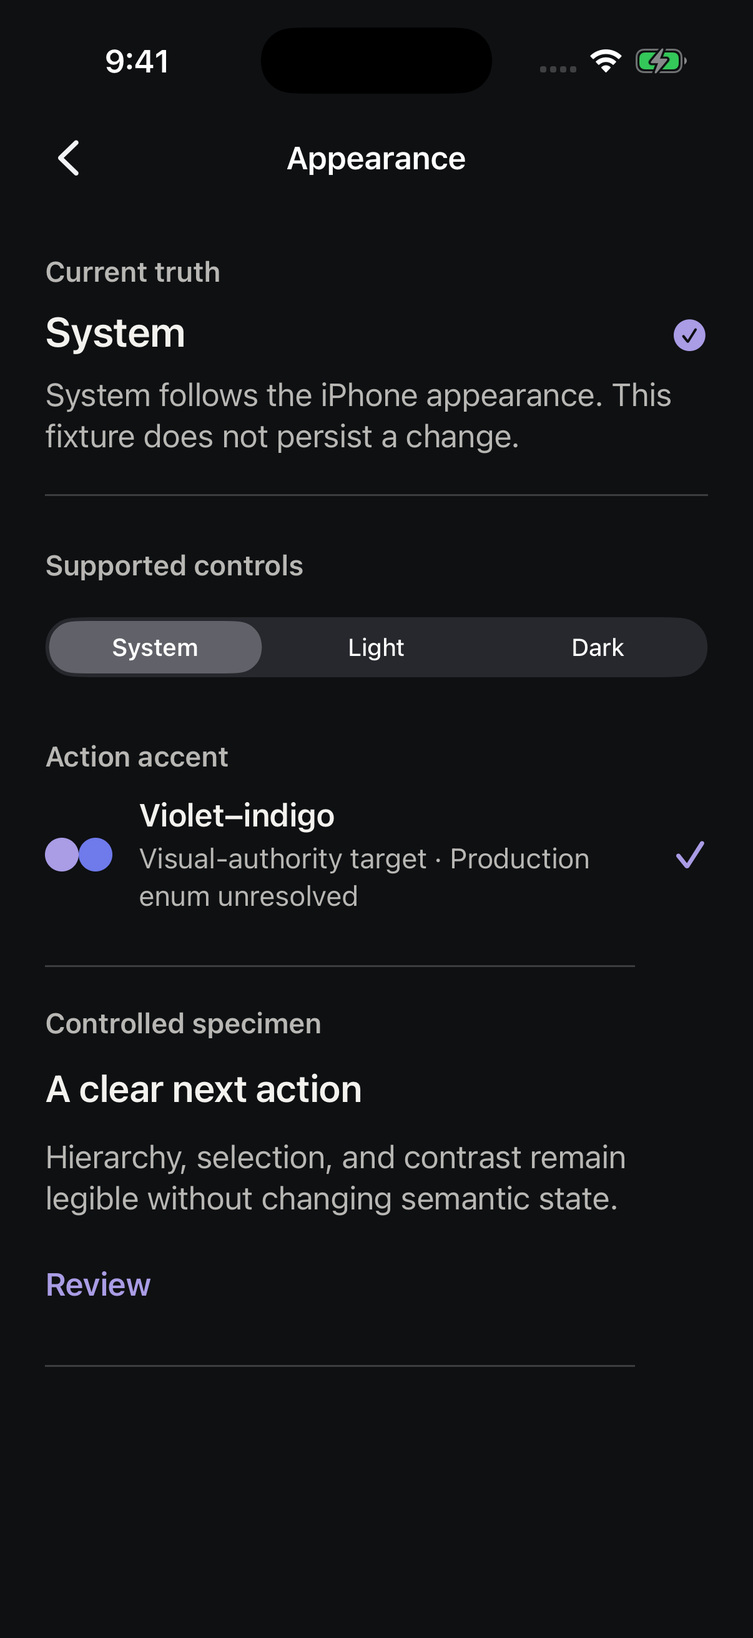
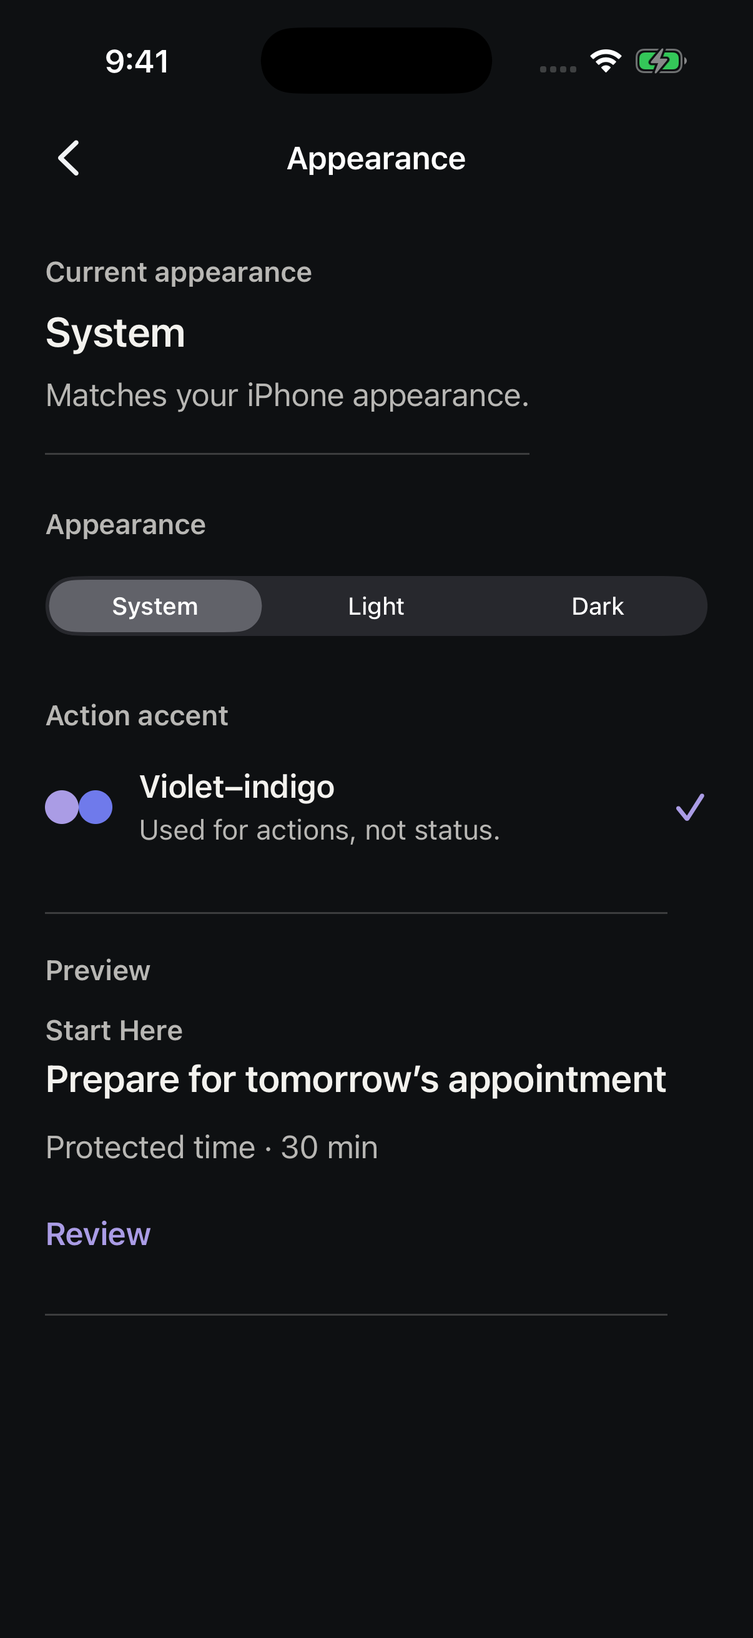
Record You D07 native R01 evidence

diff --git a/docs/qa/evidence/2026-07-30-you-native-personal-control-passage-d07/README.md b/docs/qa/evidence/2026-07-30-you-native-personal-control-passage-d07/README.md
@@ -2,57 +2,66 @@
 
 # You Native Personal Control Passage D07
 
-`AVF-YOU-D07-INT-D07-NATIVE-R00 — Native Personal Control Passage`
+`AVF-YOU-D07-INT-D07-NATIVE-R01 — Product-Facing Appearance Restoration`
 
-Status: `READY_FOR_OWNER_YOU_D07_NATIVE_ROOT_REVIEW`
+Status: `READY_FOR_OWNER_YOU_D07_NATIVE_R01_REVIEW`
+
+Parent native proof: `AVF-YOU-D07-INT-D07-NATIVE-R00 — Native Personal Control Passage`
 
 Parent synthesis: `AVF-YOU-D07-INT-D07-R00 — Native Personal Control Passage`
 
 Fixture: `you-flagship/local-personal-control/v1`
 
-Captured source: `99a81c4063b1928b3cf5ec53783594f8d41e5e95`
+Captured source: `801e64094947a786d32097c6ce53e20f3863b47b`
 
 ## Preserve exactly
 
-- The exact nine-domain order, local/no-account truth, bounded permission footing, native navigation, framework Back, exact return, and structural accessibility transformation.
+- The R00 root, exact nine-domain order, local/no-account truth, bounded permission footing, native navigation, framework Back, exact return, and structural accessibility transformation.
 - D02 remains ownership-language research only; D03 remains Personalization-depth provenance grammar only; D05 remains the focused-domain depth rhythm.
 - `APPROVED_FOR_SWIFTUI = false`.
 
 ## Changed
 
-- Replaced the rejected generated-image expression with a fixture-driven native interpretation using a compact root crown, concise root truth, a continuous matte plane, and a focused Appearance depth.
-- Moved local/no-account posture into Identity & Local Data and kept technical authority explanation out of the root.
+- Revised only Appearance depth from proof-facing language to calm product-facing language.
+- Current appearance now reads `System` and `Matches your iPhone appearance.` without a duplicate checkmark.
+- The selection section is titled `Appearance`; action accent explains `Used for actions, not status.`
+- The static preview now follows identity → current truth → action using `Prepare for tomorrow’s appointment`, `Protected time · 30 min`, and `Review`.
 
 ## Removed
 
-- Hero-scale crown spacing, crown-level local posture, long root authority explanations, assistant-coded symbolism, decorative texture, cards, permanent gutters, rails, seams, timelines, diagrams, and unsupported controls.
+- `Current truth`, `Supported controls`, `Controlled specimen`, fixture/persistence disclaimers, visual-authority terminology, production-enum terminology, and generic proof language from rendered UI.
+- No R00 root structure, behavior, or pixels were removed.
 
 ## Added
 
-- A typical Dark root, a focused Dark Appearance depth, and an Accessibility Dynamic Type Dark root.
-- Focused tests for fixture boundaries, preview-only appearance selection, domain order, first-viewport posture, semantic accessibility order, framework Back, and Appearance-row return targeting.
+- Ordered accessibility elements for preview identity, preview truth, and preview action.
+- Focused UI assertions that prohibit fixture, proof, architecture, implementation, visual-authority, and production-enum language in the rendered Appearance depth.
+- [R01 revision record](r01-revision.md) with the exact R00-to-R01 comparison.
 
 ## Unresolved
 
-- The violet–indigo visual-authority target does not match the current production accent enum. The mismatch remains explicit; no enum or production mapping changed.
+- Visual-authority target: violet–indigo.
+- Current production enum: unresolved mismatch.
+- The production enum is unchanged and this evidence makes no runtime mapping claim.
+- The large accessibility crown remains a later cross-root synthesis question; R01 does not introduce a You-specific workaround.
 - Personalization and Privacy depths, permissions/system-settings return, Light calibration, shell coexistence, all remaining focused domains, motion, haptics, final materials, typography metrics, tokens, components, persistence, and runtime mutation remain outside this slice.
 
 ## Architecture-sensitive assumptions
 
 - The synthetic fixture is immutable calibration input, not a production model or adapter.
-- Only Appearance opens because it is the sole focused depth authorized in this slice. Other domain rows preserve index truth without fabricating unsupported destinations.
-- Appearance selection is a fixture preview with no durable mutation.
-- The existing fixture-host app is an isolated evidence host, not a production app entry or runtime owner.
+- Only Appearance opens because it is the sole focused depth authorized in this slice. Other domain rows preserve index truth without fabricating destinations.
+- Appearance selection is a fixture preview with no durable mutation; that proof ceiling is evidence-only, not product copy.
+- The preview is static and has no navigation, mutation, save, settlement, or Today command authority.
 
 ## Validation
 
-See [validation-results.md](validation-results.md). Package, build, interaction, accessibility-order, image, lint, diff, path, and secret checks pass. Passing checks do not accept the direction.
+See [validation-results.md](validation-results.md). Package, build, interaction, accessibility-order, image comparison, lint, link, diff, path, and secret checks pass. Passing checks do not accept the direction.
 
 ## Evidence
 
-- [Typical Dark root](screenshots/01-you-root-typical-dark.png)
-- [Focused Appearance depth](screenshots/02-you-appearance-depth-dark.png)
-- [Accessibility Dynamic Type Dark root](screenshots/03-you-root-accessibility-dark.png)
+- [Typical Dark root](screenshots/01-you-root-typical-dark.png) — byte-identical to R00.
+- [Focused Appearance depth](screenshots/02-you-appearance-depth-dark.png) — intentionally revised.
+- [Accessibility Dynamic Type Dark root](screenshots/03-you-root-accessibility-dark.png) — byte-identical to R00.
 - [Machine-readable screenshot metadata](screenshot-metadata.json)
 - [Fixture contract](fixture-contract.md)
 
@@ -60,4 +69,4 @@ All three captures are 1206 × 2622 pixels from the `VC14 iPhone 17 Pro` Simulat
 
 ## Proof ceiling
 
-This package proves a bounded native fixture-host hypothesis on one Simulator profile. It does not prove production SwiftUI authorization, runtime integration, durable appearance mutation, a production baseline, physical-device behavior, manual assistive-technology operation, final shell coexistence, or final visual-system authority. `APPROVED_FOR_SWIFTUI` remains `false`.
+This package proves a bounded native fixture-host revision on one Simulator profile. It does not prove production SwiftUI authorization, runtime integration, durable appearance mutation, a production baseline, physical-device behavior, manual assistive-technology operation, final shell coexistence, or final visual-system authority. `APPROVED_FOR_SWIFTUI` remains `false`.

diff --git a/docs/qa/native-foundry/you-world-class-structural-entry/owner-review.md b/docs/qa/native-foundry/you-world-class-structural-entry/owner-review.md
@@ -2,11 +2,11 @@
 
 # Owner Review
 
-Status: `READY_FOR_OWNER_YOU_D07_NATIVE_ROOT_REVIEW`
+Status: `READY_FOR_OWNER_YOU_D07_NATIVE_R01_REVIEW`
 
 Parent direction: `AVF-YOU-D07-R02 — Local Personal Control Index`
 
-## R01 owner disposition
+## Initial root-render owner disposition
 
 - D01 remains the native root substrate and control reference. Its R00 render is not selected because it remains too close to generic Apple Settings anatomy.
 - D04-R00's rendering expression is rejected. Selective source-purpose-consequence clarification survives only where authority materially crosses Ambitions, iPhone system control, or a supported external source.
@@ -23,15 +23,21 @@ The generated render for `AVF-YOU-D07-INT-D07-R00 — Native Personal Control Pa
 
 The D07 structural family remains `SELECTED_FOR_SYNTHESIS`, subordinate to `AVF-YOU-D07-R02 — Local Personal Control Index`. It does not replace the parent direction, install canon, select a final You direction, or authorize production work.
 
-## Native proving slice
+## R00 native owner disposition
 
-`AVF-YOU-D07-INT-D07-NATIVE-R00 — Native Personal Control Passage`
+`AVF-YOU-D07-INT-D07-NATIVE-R00 — Native Personal Control Passage` is not yet accepted as provisional You calibration evidence. Its root structure, native navigation proof, exact return, and accessibility recomposition survive unchanged.
 
-Status: `READY_FOR_OWNER_YOU_D07_NATIVE_ROOT_REVIEW`
+The sole blocking issue was Appearance depth exposing Foundry, proof, architecture, and implementation language as product UI.
+
+## R01 native proving revision
+
+`AVF-YOU-D07-INT-D07-NATIVE-R01 — Product-Facing Appearance Restoration`
+
+Status: `READY_FOR_OWNER_YOU_D07_NATIVE_R01_REVIEW`
 
 [Review the bounded native evidence](../../evidence/2026-07-30-you-native-personal-control-passage-d07/README.md).
 
-The slice is limited to a typical Dark root, a focused Dark Appearance depth, an Accessibility Dynamic Type Dark root, and the framework Back journey returning to the exact originating root context and Appearance row.
+R01 is limited to product-facing restoration within the existing focused Dark Appearance depth. The typical Dark root and Accessibility Dynamic Type Dark root were recaptured and remained byte-identical to R00. Framework Back still returns to the exact originating root context and Appearance row.
 
 ## D07 native owner checks
 
@@ -39,9 +45,10 @@ The slice is limited to a typical Dark root, a focused Dark Appearance depth, an
 - Identity & Local Data carries `On this iPhone · No account`.
 - The ordinary viewport reaches Notifications & Attention without smaller type or all-nine-domain compression.
 - The root stays on one continuous matte plane without cards, rails, seams, timelines, diagrams, or technical ownership taxonomy.
-- Appearance uses focused-domain cadence: current truth, supported controls, provisional accent posture, and one controlled specimen.
+- Appearance uses product cadence: current appearance, native selection, action accent, and one static Ambitions preview.
+- Rendered UI contains no fixture, proof, architecture, implementation, visual-authority, or production-enum terminology.
 - System, Light, and Dark are fixture-preview states only; no persistence is implied.
-- The violet–indigo target remains explicitly unresolved against the production enum.
+- The violet–indigo target remains unresolved against the production enum in evidence only.
 - Accessibility Dynamic Type retains every domain and summary in canonical order through scrolling.
 - Framework Back restores the root and marks Appearance as the return target.
 - The captures make no shell, dock, physical-device, production-baseline, or approval claim.
@@ -52,6 +59,8 @@ The slice is limited to a typical Dark root, a focused Dark Appearance depth, an
 - D07 synthesis status: `SELECTED_FOR_SYNTHESIS`
 - D07 generated root accepted: `false`
 - D07 bounded native Foundry prototype completed: `true`
+- D07 R00 native calibration accepted: `false`
+- D07 R01 bounded revision completed: `true`
 - D07 native calibration accepted: `false`
 - Further conceptual rendering authorized: `false`
 - Production You SwiftUI authorized: `false`
@@ -65,6 +74,6 @@ The slice is limited to a typical Dark root, a focused Dark Appearance depth, an
 
 ## Next owner decision
 
-- accept or reject D07 as provisional You calibration evidence;
-- request a bounded native revision; or
+- accept or reject R01 as provisional You calibration evidence;
+- request another bounded revision; or
 - pause You calibration.

diff --git a/docs/qa/evidence/2026-07-30-you-native-personal-control-passage-d07/validation-results.md b/docs/qa/evidence/2026-07-30-you-native-personal-control-passage-d07/validation-results.md
@@ -4,7 +4,9 @@
 
 Status: `PASS`
 
-Captured source: `99a81c4063b1928b3cf5ec53783594f8d41e5e95`
+Native proving ID: `AVF-YOU-D07-INT-D07-NATIVE-R01`
+
+Captured source: `801e64094947a786d32097c6ce53e20f3863b47b`
 
 ## Native package and fixture host
 
@@ -13,32 +15,34 @@ Captured source: `99a81c4063b1928b3cf5ec53783594f8d41e5e95`
 - `AmbitionsNativeFoundryHost` Simulator `build-for-testing`: pass, `TEST BUILD SUCCEEDED`.
 - Focused `YouNativeCalibrationD07HostUITests`: pass, 3 tests and 0 failures.
 
-Xcode emitted a non-fatal `DebuggerLLDB.DebuggerVersionStore.StoreError` diagnostic while creating the UI-test launch snapshot. The focused tests continued and passed.
+The new product-facing Appearance assertion first failed against R00 on `Current truth` and the fixture persistence disclaimer, then passed after the bounded revision. Xcode emitted its existing non-fatal `DebuggerLLDB.DebuggerVersionStore.StoreError` launch-snapshot diagnostic; the focused tests continued and passed.
 
 ## Interaction and accessibility assertions
 
-- Root to Appearance uses `NavigationStack` and a typed route.
+- Root to Appearance uses the existing `NavigationStack` and typed route.
 - The framework Back button is present and hittable.
 - Back returns to the root at the originating scroll position and exposes Appearance as the return target.
-- Ordinary root order and summaries are asserted through Notifications & Attention.
-- The next domain begins below the ordinary first viewport rather than being compressed into it.
-- Accessibility Dynamic Type preserves all nine domains, all summaries, canonical semantic order, and natural scroll reachability.
-- Every asserted row has at least a 44-point interaction envelope.
+- Appearance depth semantic order is current appearance, native selection, action accent, preview identity, preview truth, and preview action.
+- Decorative accent circles remain hidden from accessibility.
+- Rendered accessibility labels and values contain no fixture, proof, architecture, implementation, visual-authority, or production-enum language.
+- Root Dynamic Type behavior and all-nine-domain order remain unchanged.
 
 These automated semantic checks are not manual VoiceOver, Switch Control, Voice Control, Full Keyboard Access, long-localization, RTL, or physical-device proof.
 
-## Captures and metadata
+## Captures and R00 comparison
 
-- Exactly three required PNG files exist.
-- Each PNG is 1206 × 2622 pixels.
-- Metadata parses as JSON and records device, OS, appearance, Dynamic Type, fixture identity, exact captured-source commit, SHA-256, `production_baseline = false`, `direct_device_proof = false`, and `approved_for_swiftui = false`.
-- All three images were inspected at original resolution against the bounded native rejection conditions.
+- Exactly three required PNG files exist; each is 1206 × 2622 pixels.
+- `01-you-root-typical-dark.png`: byte-identical to R00; SHA-256 unchanged.
+- `02-you-appearance-depth-dark.png`: intentionally changed; SHA-256 changed.
+- `03-you-root-accessibility-dark.png`: byte-identical to R00; SHA-256 unchanged.
+- Metadata parses as JSON and records device, OS, appearance, Dynamic Type, fixture identity, exact captured-source commit, hashes, R00 comparison, `production_baseline = false`, `direct_device_proof = false`, and `approved_for_swiftui = false`.
+- The revised Appearance image was inspected at original resolution.
 
 ## Bounded repository checks
 
-- SwiftLint 0.63.2 on the nine changed Swift files: pass, 0 violations.
+- SwiftLint 0.63.2 on the two changed Swift files: pass, 0 violations.
 - Local Markdown links in changed records: pass.
-- Changed-path audit: pass; only Native Foundry host/test paths, the Foundry package/test paths, existing You packet records, and this evidence directory changed.
+- Changed-path audit: pass; only the Foundry Appearance view, its focused UI test, existing You packet records, and the existing evidence package changed.
 - `git diff --check`: pass.
 - Introduced-range Gitleaks: pass.
 - Final worktree inspection: pass; branch clean after evidence commit.

diff --git a/docs/qa/native-foundry/you-world-class-structural-entry/d07-native-personal-control-passage.md b/docs/qa/native-foundry/you-world-class-structural-entry/d07-native-personal-control-passage.md
@@ -8,9 +8,11 @@ Name: `Native Personal Control Passage`
 
 Status: `SELECTED_FOR_SYNTHESIS`
 
-Native proving ID: `AVF-YOU-D07-INT-D07-NATIVE-R00`
+Native proving ID: `AVF-YOU-D07-INT-D07-NATIVE-R01`
 
-Native proving status: `READY_FOR_OWNER_YOU_D07_NATIVE_ROOT_REVIEW`
+Native proving status: `READY_FOR_OWNER_YOU_D07_NATIVE_R01_REVIEW`
+
+Native proving parent: `AVF-YOU-D07-INT-D07-NATIVE-R00 — Native Personal Control Passage`
 
 Parent direction: `AVF-YOU-D07-R02 — Local Personal Control Index`
 
@@ -77,21 +79,26 @@ D05's four-phase rhythm is the bounded depth hypothesis:
 3. supported controls; and
 4. controlled consequence specimen.
 
-The fixture exposes System, Light, and Dark through a native selection control. Selection is preview-only and never presented as durable mutation. The System explanation states that System follows iPhone appearance at focused depth.
+The fixture exposes System, Light, and Dark through a native selection control. Product UI states that System matches iPhone appearance. Selection remains preview-only in evidence and is never presented as durable mutation.
 
-The violet–indigo action-accent target remains explicitly provisional because the current production enum does not contain it. The native slice neither remaps nor modifies that enum.
+The product-facing action accent says violet–indigo is used for actions, not status. The production-enum mismatch remains evidence-only: the target is violet–indigo, the mismatch is unresolved, the enum is unchanged, and no runtime mapping is claimed.
+
+The static preview follows `Start Here` → `Prepare for tomorrow’s appointment` → `Protected time · 30 min` → `Review`. It has no navigation, mutation, save, settlement, or Today command behavior.
 
 D03's eight-state grammar remains available only inside selected Personalization value depth. It does not organize the root and is not exercised by this proving slice.
 
 ## Native evidence
 
-[Open the AVF-YOU-D07-INT-D07-NATIVE-R00 evidence package](../../evidence/2026-07-30-you-native-personal-control-passage-d07/README.md).
+[Open the AVF-YOU-D07-INT-D07-NATIVE-R01 evidence package](../../evidence/2026-07-30-you-native-personal-control-passage-d07/README.md).
 
 - `01-you-root-typical-dark.png`
 - `02-you-appearance-depth-dark.png`
 - `03-you-root-accessibility-dark.png`
 - Fixture: `you-flagship/local-personal-control/v1`
-- Captured source: `99a81c4063b1928b3cf5ec53783594f8d41e5e95`
+- Captured source: `801e64094947a786d32097c6ce53e20f3863b47b`
+- Root pixels changed from R00: `false`
+- Appearance pixels changed from R00: `true`
+- Accessibility-root pixels changed from R00: `false`
 - Production baseline: `false`
 - Direct-device proof: `false`
 - `APPROVED_FOR_SWIFTUI`: `false`
@@ -105,6 +112,7 @@ D03's eight-state grammar remains available only inside selected Personalization
 - Light appearance calibration;
 - shell or Crowned Edge Dock coexistence;
 - final accent family;
+- large accessibility crown posture pending cross-root synthesis;
 - motion or haptics;
 - final materials, typography metrics, tokens, or component APIs; and
 - production persistence or runtime mutation.

diff --git a/docs/qa/evidence/2026-07-30-you-native-personal-control-passage-d07/r01-revision.md b/docs/qa/evidence/2026-07-30-you-native-personal-control-passage-d07/r01-revision.md
@@ -1,0 +1,48 @@
+<!-- markdownlint-disable MD013 -->
+
+# R01 Product-Facing Appearance Restoration
+
+Proving identity: `AVF-YOU-D07-INT-D07-NATIVE-R01 — Product-Facing Appearance Restoration`
+
+Parent: `AVF-YOU-D07-INT-D07-NATIVE-R00 — Native Personal Control Passage`
+
+Status: `READY_FOR_OWNER_YOU_D07_NATIVE_R01_REVIEW`
+
+The owner did not accept R00 as provisional You calibration evidence. The root structure, native navigation, exact return, and accessibility recomposition survived unchanged. R01 repairs only the Appearance depth's exposure of Foundry, proof, architecture, and implementation language as product UI.
+
+## Appearance revision
+
+- `Current appearance` → `System` → `Matches your iPhone appearance.`
+- `Appearance` → native System, Light, Dark segmented selection.
+- `Action accent` → `Violet–indigo` → `Used for actions, not status.`
+- `Preview` → `Start Here` → `Prepare for tomorrow’s appointment` → `Protected time · 30 min` → `Review`.
+
+The current-appearance checkmark was removed. The accent retains one selected-state indicator. The preview remains static and does not navigate, mutate, save, settle, or imply a working Today command.
+
+## Removed from rendered UI
+
+- `Current truth`
+- `Supported controls`
+- `Controlled specimen`
+- fixture or persistence disclaimers
+- visual-authority terminology
+- production-enum terminology
+- proof, architecture, and implementation terminology
+
+The violet–indigo production-enum mismatch remains evidence-only: the target is violet–indigo, the production enum mismatch is unresolved, the enum is unchanged, and no runtime mapping is claimed.
+
+## R00-to-R01 screenshot comparison
+
+| Frame | R00 SHA-256 | R01 SHA-256 | Result |
+|---|---|---|---|
[3 lines of base64/hex data omitted]
+
+Comparison method: byte-for-byte PNG comparison after recapturing the same variants on the same Simulator profile.
+
+## Accessibility ceiling
+
+Automated checks prove the required semantic order and absence of internal program language. They do not constitute manual VoiceOver, Switch Control, Voice Control, Full Keyboard Access, RTL, localization, or physical-device proof.
+
+The large accessibility crown is recorded as a later cross-root synthesis question. No You-specific crown workaround is introduced.

diff --git a/docs/qa/native-foundry/you-world-class-structural-entry/README.md b/docs/qa/native-foundry/you-world-class-structural-entry/README.md
@@ -2,7 +2,7 @@
 
 # You World-Class Structural Entry
 
-Status: `READY_FOR_OWNER_YOU_D07_NATIVE_ROOT_REVIEW`
+Status: `READY_FOR_OWNER_YOU_D07_NATIVE_R01_REVIEW`
 
 Parent direction: `AVF-YOU-D07-R02 — Local Personal Control Index`
 
@@ -40,7 +40,7 @@ No D01–D06 direction is accepted as provisional You calibration evidence.
 
 The generated D07 R00 root is not accepted as provisional You calibration evidence. It remains a structural reference only. `AVF-YOU-D07-INT-D07-R00 — Native Personal Control Passage` remains `SELECTED_FOR_SYNTHESIS` and subordinate to `AVF-YOU-D07-R02`.
 
-The authorized native proving identity is `AVF-YOU-D07-INT-D07-NATIVE-R00 — Native Personal Control Passage`. Its evidence is ready for owner review; passing tests do not accept the direction automatically.
+R00 is not accepted as provisional You calibration evidence. Its root structure, navigation proof, exact return, and accessibility recomposition survive. The narrow revision `AVF-YOU-D07-INT-D07-NATIVE-R01 — Product-Facing Appearance Restoration` removes internal program language from Appearance depth without changing the root. Its evidence is ready for owner review; passing tests do not accept the direction automatically.
 
 ## Package
 

diff --git a/docs/qa/native-foundry/you-world-class-structural-entry/changed-files.md b/docs/qa/native-foundry/you-world-class-structural-entry/changed-files.md
@@ -2,6 +2,23 @@
 
 # Changed Files
 
+## R01 product-facing Appearance restoration
+
+The R01 revision changes exactly:
+
+- `Packages/AmbitionsPresentation/Sources/AmbitionsNativeVisualFoundry/YouNativeCalibrationView.swift`
+- `Native/AmbitionsNativeFoundryHostUITests/YouNativeCalibrationD07HostUITests.swift`
+- `docs/qa/native-foundry/you-world-class-structural-entry/README.md`
+- `docs/qa/native-foundry/you-world-class-structural-entry/changed-files.md`
+- `docs/qa/native-foundry/you-world-class-structural-entry/d07-native-personal-control-passage.md`
+- `docs/qa/native-foundry/you-world-class-structural-entry/owner-review.md`
+- the existing evidence-package records under `docs/qa/evidence/2026-07-30-you-native-personal-control-passage-d07/`
+- `docs/qa/evidence/2026-07-30-you-native-personal-control-passage-d07/screenshots/02-you-appearance-depth-dark.png`
+
+The recaptured root and accessibility PNGs remain byte-identical to R00 and therefore have no Git content change.
+
+## R00 bounded native proving slice
+
 This continuation adds only the bounded D07 native Foundry proving slice and its owner-review evidence.
 
 ## Native Foundry package

diff --git a/docs/qa/evidence/2026-07-30-you-native-personal-control-passage-d07/fixture-contract.md b/docs/qa/evidence/2026-07-30-you-native-personal-control-passage-d07/fixture-contract.md
@@ -32,11 +32,15 @@ The ordinary screenshot reaches Notifications & Attention. All remaining domains
 ## Appearance proving state
 
 - Current appearance: System.
+- Current supporting copy: `Matches your iPhone appearance.`
 - Available fixture-preview choices: System, Light, Dark.
 - Action accent: violet–indigo visual-authority target.
-- Accent posture: provisional; current production enum mismatch unresolved.
+- Product-facing accent purpose: `Used for actions, not status.`
+- Internal evidence posture: current production enum mismatch unresolved; production enum unchanged; no runtime mapping claim.
 - Selection persistence: none.
 - Supported focused depth: Appearance only.
+- Static preview: `Start Here` → `Prepare for tomorrow’s appointment` → `Protected time · 30 min` → `Review`.
+- Preview capability: visual only; no navigation, mutation, save, settlement, or Today command.
 
 ## Capture variants
 

diff --git a/docs/qa/evidence/2026-07-30-you-native-personal-control-passage-d07/changed-files.md b/docs/qa/evidence/2026-07-30-you-native-personal-control-passage-d07/changed-files.md
@@ -9,8 +9,11 @@ This evidence directory contains:
 - `README.md`
 - `changed-files.md`
 - `fixture-contract.md`
+- `r01-revision.md`
 - `screenshot-metadata.json`
 - `validation-results.md`
 - `screenshots/01-you-root-typical-dark.png`
 - `screenshots/02-you-appearance-depth-dark.png`
 - `screenshots/03-you-root-accessibility-dark.png`
+
+For R01, only `screenshots/02-you-appearance-depth-dark.png` changed bytes. The root and accessibility PNGs were recaptured and remained byte-identical to R00.
